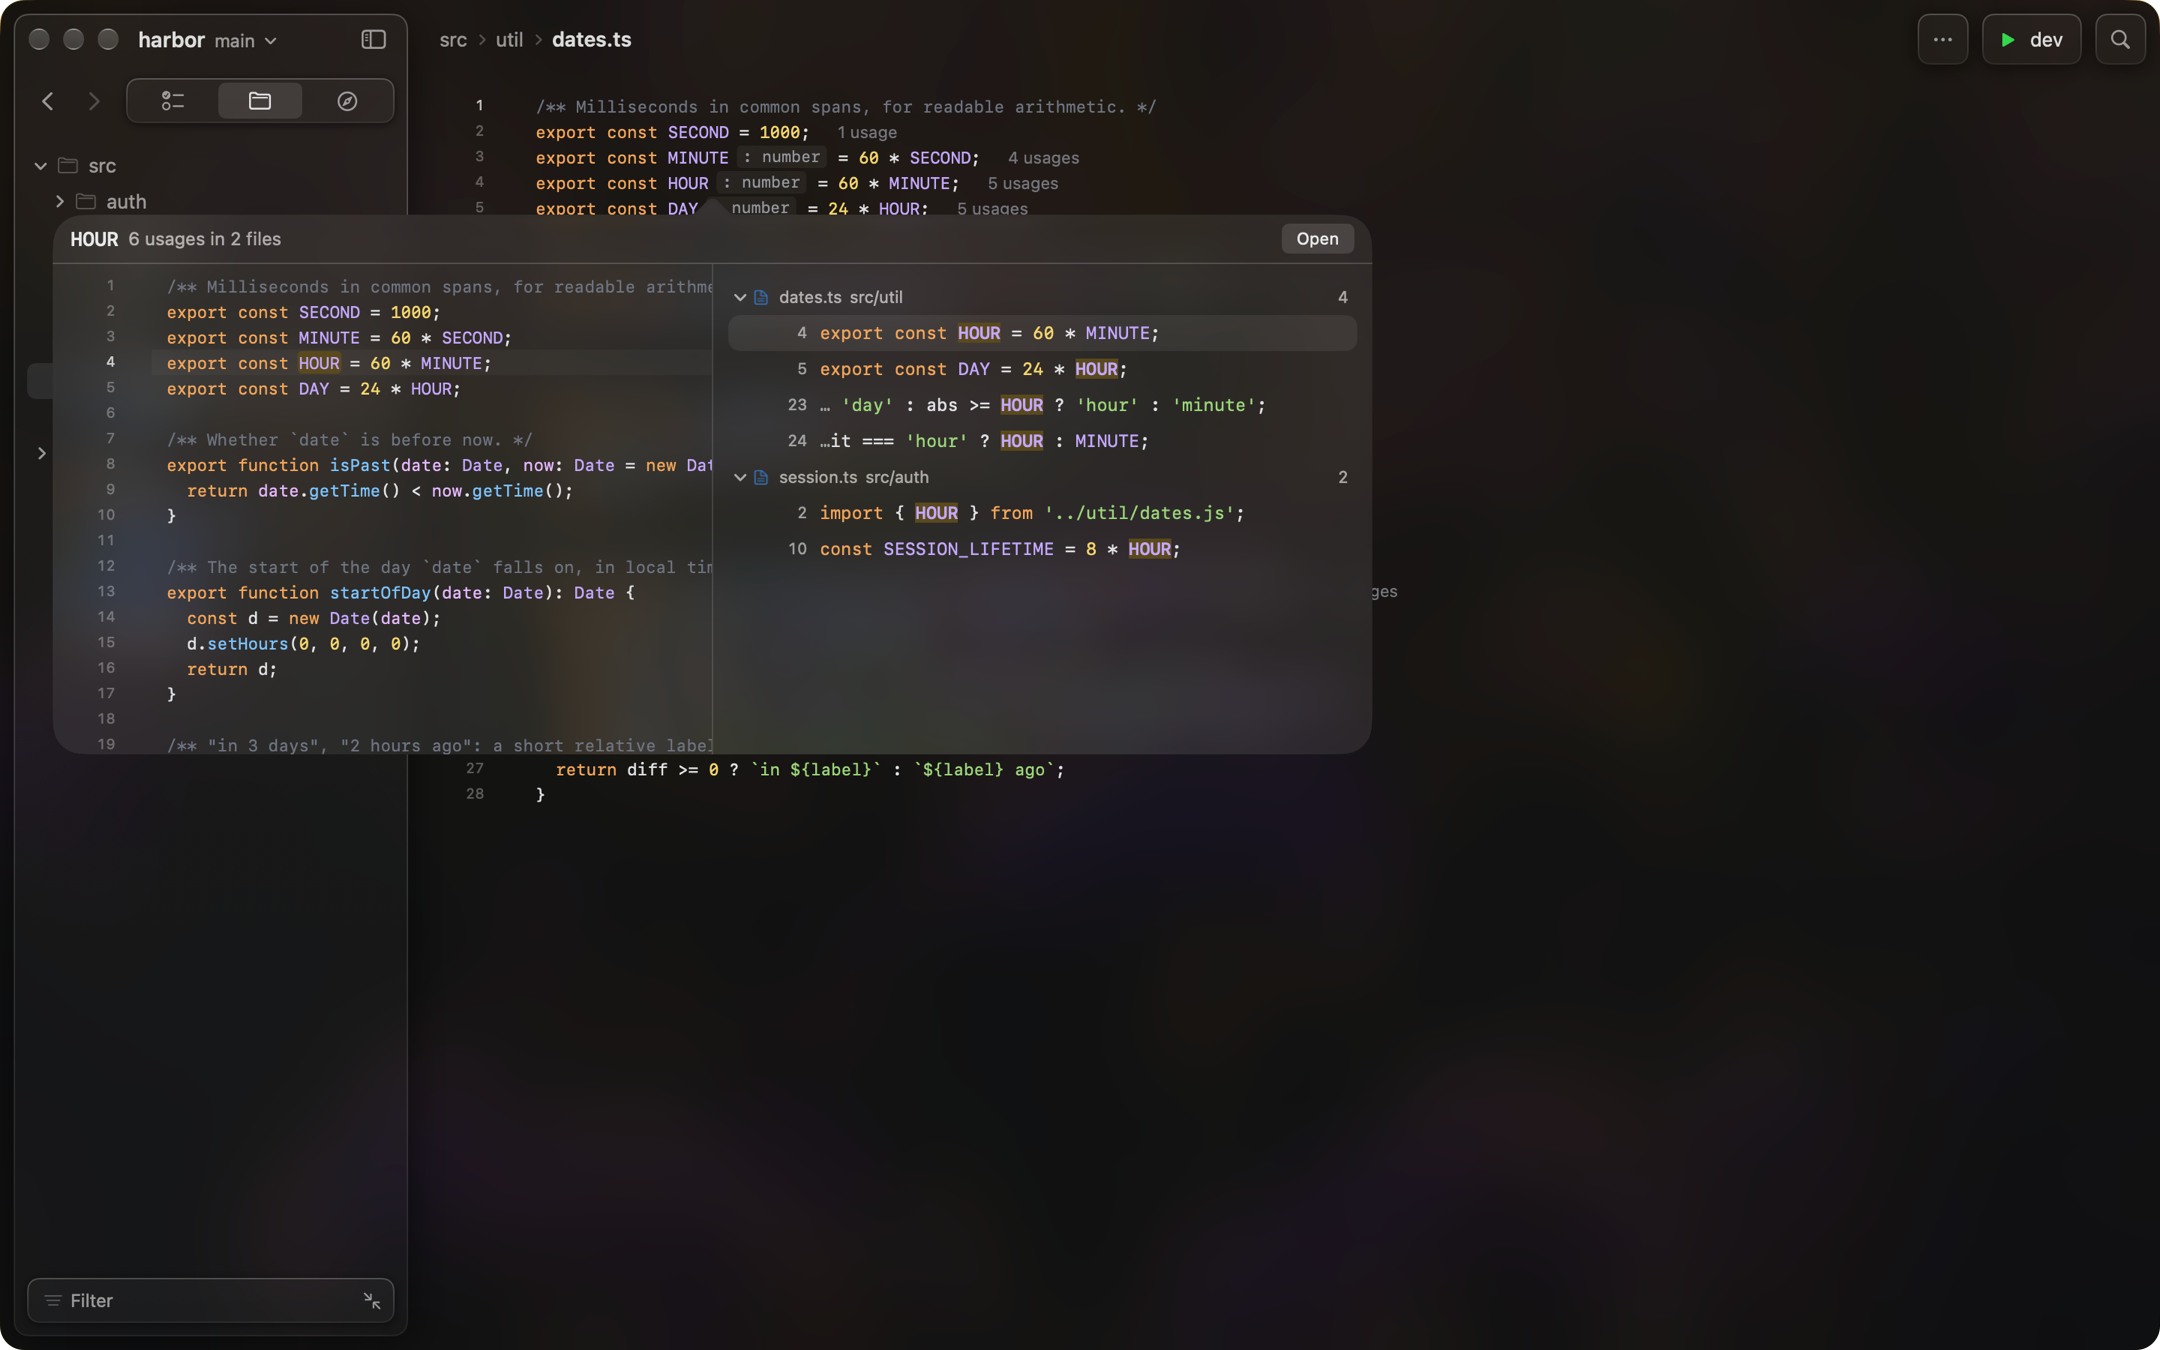
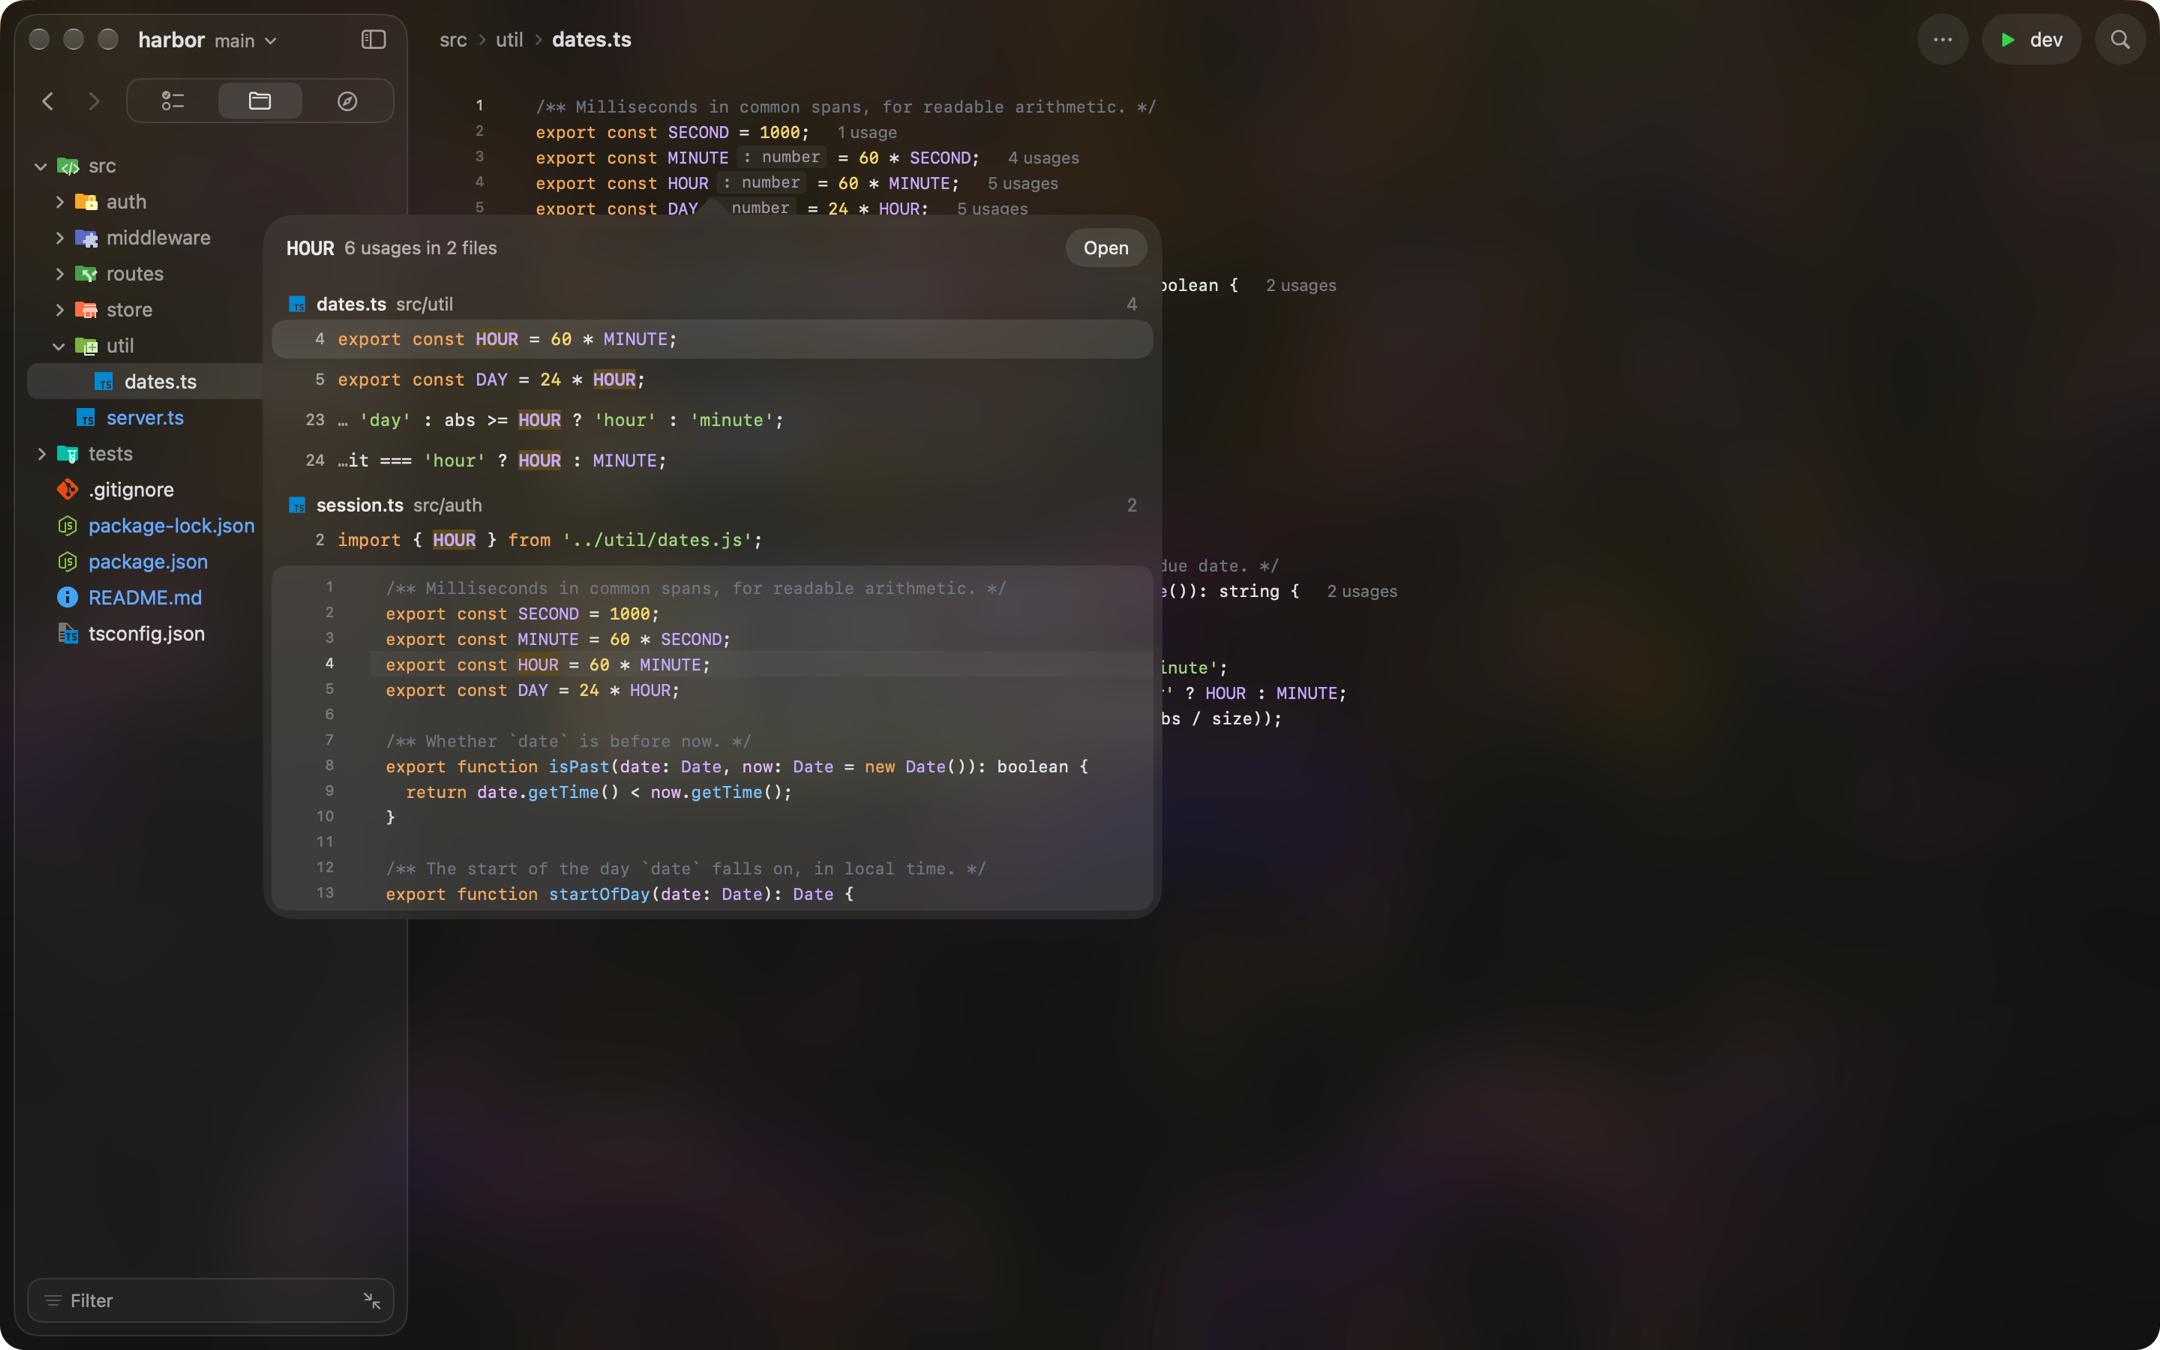
docs: screenshots and text for the new look
The README's screenshots are retaken in the redesigned app, and the walkthrough
describes the review dot. (Tests can open your own note with "note mine".)

Changed region(s): [[0.0, 0.1244, 0.6514, 0.6844], [0.3412, 0.3422, 0.5894, 0.4667]]

diff --git a/Sources/Vet/UI/VetApp.swift b/Sources/Vet/UI/VetApp.swift
@@ -373,8 +373,9 @@ final class AppDelegate: NSObject, NSApplicationDelegate {
                 view.onCreateNote?(line - 1, String(staging.work.lines[line - 1].text), args.dropFirst(2).joined(separator: " "))
                 return
             }
-            let n = Int(args.first ?? "0") ?? 0
-            guard n < view.shownNotes.count, let row = view.workRow(ofFileLine: view.shownNotes[n].line) else { return }
+            // note mine: your own first note
+            let n = args.first == "mine" ? (view.shownNotes.firstIndex { !$0.isClaude } ?? -1) : Int(args.first ?? "0") ?? 0
+            guard n >= 0, n < view.shownNotes.count, let row = view.workRow(ofFileLine: view.shownNotes[n].line) else { return }
             view.debugClickNote(view.shownNotes[n].id, row: row)
         }
         SnapshotHook.on("markfilm") { _ in if let dir = ProcessInfo.processInfo.environment["VET_SNAPSHOT_DIR"] { StageToggle.film(to: dir) } }

diff --git a/README.md b/README.md
@@ -31,11 +31,11 @@ Vet is built for this era. AI code isn't always right, so you still want control
 
 ![The review order](docs/images/review-order.png)
 
-**2. Read its notes on the code.** Each file opens with a short description, and the agent's notes wait beside the changes that matter.
+**2. Read its notes on the code.** Each file comes with a short description in the sidebar, and the agent's notes wait beside the changes that matter.
 
 ![A note from the agent beside a change](docs/images/claude-note.png)
 
-**3. Approve as you go.** `Space` approves a change and moves to the next. Nothing in git changes until you press `⌘K`, which asks the agent to commit what you reviewed.
+**3. Approve as you go.** Every change has a dot beside it: amber when it's new to you, blue once you've seen it, grey once approved. Click it, or press `Space` to approve and move to the next. Nothing in git changes until you press `⌘K`, which asks the agent to commit what you reviewed.
 
 **4. Say what's wrong on the line.** `⌘N` writes a note, `⌘↩` sends it. The agent fixes it in the background and answers on the same line while you keep reading.
 
@@ -47,7 +47,7 @@ Vet is built for this era. AI code isn't always right, so you still want control
 
 ### Native glass
 
-One window, dark, drawn in macOS's own materials: a floating glass sidebar over a work surface that fills the window, with every control, menu and message made of the same sheet. Code fades out before the window's edge instead of being cut by it.
+One window, dark, in macOS's own Liquid Glass: the sidebar sits in a glass panel, the code fills the rest of the window, and menus, search and messages float in the system's clear glass. Every button, field and panel shares the same shapes and quiet motion, and the code fades out before the window's edge instead of being cut by it.
 
 ### The parts of an IDE you need along the way
 
